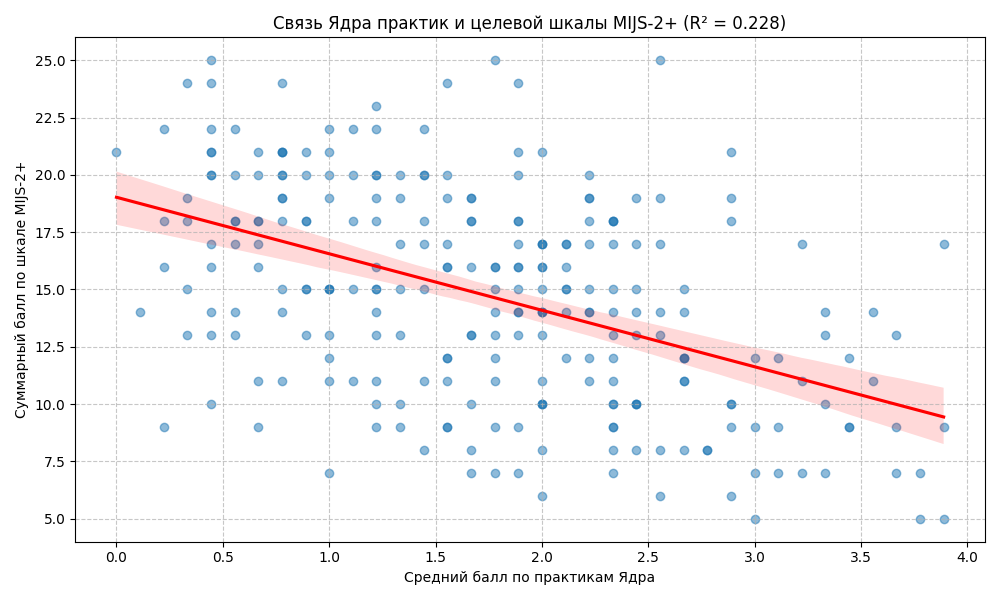
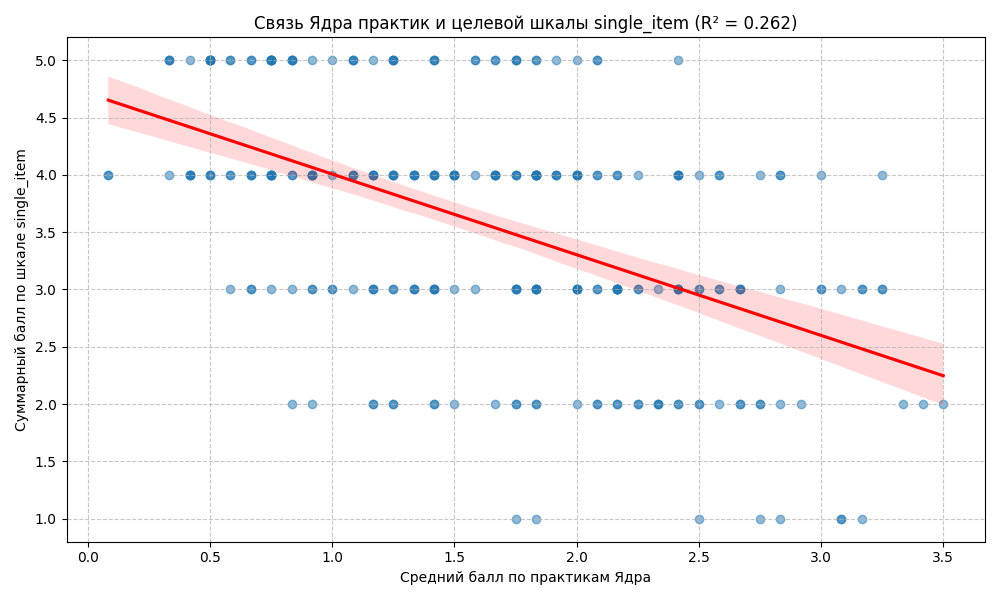
Новых результатов бутстрепа насыпал

diff --git a/Survey-01/stability_analysis.py b/Survey-01/stability_analysis.py
@@ -21,7 +21,7 @@ ROBUSTNESS_REPORT = os.path.join(REPORT_DIR, 'robustness_report.md')
 
 # Целевая шкала для анализа (можно менять)
 # Доступные: 'MIJS-2+', 'MIJS-3+', 'single_item', 'MIJS-2', 'MIJS'
-TARGET_SCALE = 'MIJS-2+'
+TARGET_SCALE = 'single_item'
 
 # Определения составов шкал
 SCALES = {
@@ -33,9 +33,9 @@ SCALES = {
 }
 
 # Настройки симуляции
-N_ITERATIONS = 1000 # Установлено 10 для отладки
-SAMPLE_SIZE = 180  # Уменьшено пользователем для большей жесткости отбора
-TOP_K = 15         
+N_ITERATIONS = 10000 # Установлено 10 для отладки
+SAMPLE_SIZE = 210  # Уменьшено пользователем для большей жесткости отбора
+P_VALUE_THRESHOLD = 0.01  # Порог значимости после коррекции на множественные сравнения
 CORE_THRESHOLD = 75 # Порог для включения в "Ядро"
 CONSENSUS_THRESHOLD = 3 # Порог для включения в "Консенсус"
 
@@ -154,7 +154,7 @@ def load_and_preprocess():
     return data, prac_cols, setup_cols, FEATURE_LABELS
 
 def get_top_consensus_practices(df_scales, prac_cols, setup_cols):
-    """Ядро алгоритма отбора (топ-15 консенсус)"""
+    """Ядро алгоритма отбора (практики со значимым p-value < P_VALUE_THRESHOLD)"""
     all_practices = prac_cols + setup_cols
     target_data = df_scales[TARGET_SCALE + '_total']
     
@@ -172,7 +172,8 @@ def get_top_consensus_practices(df_scales, prac_cols, setup_cols):
         _, p_adj, _, _ = multipletests(corr_pvals, method='fdr_bh')
         corr_results = [(f[0], p_adj[i], f[2]) for i, f in enumerate(corr_feats)]
         corr_results.sort(key=lambda x: (x[1], -abs(x[2])))
-        top_corr = [x[0] for x in corr_results[:TOP_K]]
+        # Отобрать все практики с p-value < порога (вместо TOP-K)
+        top_corr = [x[0] for x in corr_results if x[1] < P_VALUE_THRESHOLD]
     else:
         top_corr = []
 
@@ -191,7 +192,8 @@ def get_top_consensus_practices(df_scales, prac_cols, setup_cols):
         _, p_adj, _, _ = multipletests(anova_pvals, method='fdr_bh')
         anova_results = [(f[0], p_adj[i]) for i, f in enumerate(anova_feats)]
         anova_results.sort(key=lambda x: x[1])
-        top_anova = [x[0] for x in anova_results[:TOP_K]]
+        # Отобрать все практики с p-value < порога (вместо TOP-K)
+        top_anova = [x[0] for x in anova_results if x[1] < P_VALUE_THRESHOLD]
     else:
         top_anova = []
 
@@ -215,11 +217,12 @@ def get_top_consensus_practices(df_scales, prac_cols, setup_cols):
         _, p_adj, _, _ = multipletests(kw_pvals, method='fdr_bh')
         kw_results = [(f[0], p_adj[i]) for i, f in enumerate(kw_feats)]
         kw_results.sort(key=lambda x: x[1])
-        top_kw = [x[0] for x in kw_results[:TOP_K]]
+        # Отобрать все практики с p-value < порога (вместо TOP-K)
+        top_kw = [x[0] for x in kw_results if x[1] < P_VALUE_THRESHOLD]
     else:
         top_kw = []
 
-    # Consensus (appears in at least 2 top-15 lists)
+    # Consensus (appears in at least CONSENSUS_THRESHOLD lists)
     counts = {}
     for f in (top_corr + top_anova + top_kw):
         counts[f] = counts.get(f, 0) + 1
@@ -259,9 +262,11 @@ def run_stability_analysis():
     print(f"Генерация отчета в {ROBUSTNESS_REPORT}...")
     with open(ROBUSTNESS_REPORT, 'w', encoding='utf-8') as f:
         f.write("# Анализ устойчивости (Stability Selection)\n\n")
-        f.write(f"Параметры: {N_ITERATIONS} итераций, подвыборка {SAMPLE_SIZE} человек (~80%).\n")
+        f.write(f"Параметры: {N_ITERATIONS} итераций, подвыборка {SAMPLE_SIZE} человек (~{int(SAMPLE_SIZE / len(data) * 100)}%).\n")
         f.write(f"Целевая шкала: {TARGET_SCALE}\n")
-        f.write(f"Stability Score показывает, в каком проценте случаев практика попадала в 'Топ-15 консенсуса' в {CONSENSUS_THRESHOLD} из 3 алгоритмов при случайных изменениях в выборке.\n\n")
+        f.write(f"Отбор практик: все практики с скорректированным p-value < {P_VALUE_THRESHOLD} (FDR Benjamini-Hochberg).\n")
+        f.write(f"Консенсус: практика должна попасть в отобранные списки минимум {CONSENSUS_THRESHOLD} из 3 методов.\n")
+        f.write(f"Stability Score показывает, в каком проценте случаев практика попадала в список консенсуса при случайных изменениях в выборке.\n\n")
 
         f.write("![Stability Selection Graph](images/stability_selection.png)\n\n")
         
@@ -280,7 +285,7 @@ def run_stability_analysis():
     
     sns.barplot(data=df_plot, x='Stability', y='Label_Wrapped', hue='Stability', palette='viridis', legend=False)
     plt.axvline(CORE_THRESHOLD, color='red', linestyle='--', label=f'{CORE_THRESHOLD}% Threshold')
-    plt.title(f"Stability Selection: Частота попадания в ТОП-15 ({TARGET_SCALE})")
+    plt.title(f"Stability Selection: Частота попадания в список значимых практик (p < {P_VALUE_THRESHOLD}, {TARGET_SCALE})")
     plt.xlabel("Stability Score (%)")
     plt.ylabel("Практика")
     plt.tight_layout()
